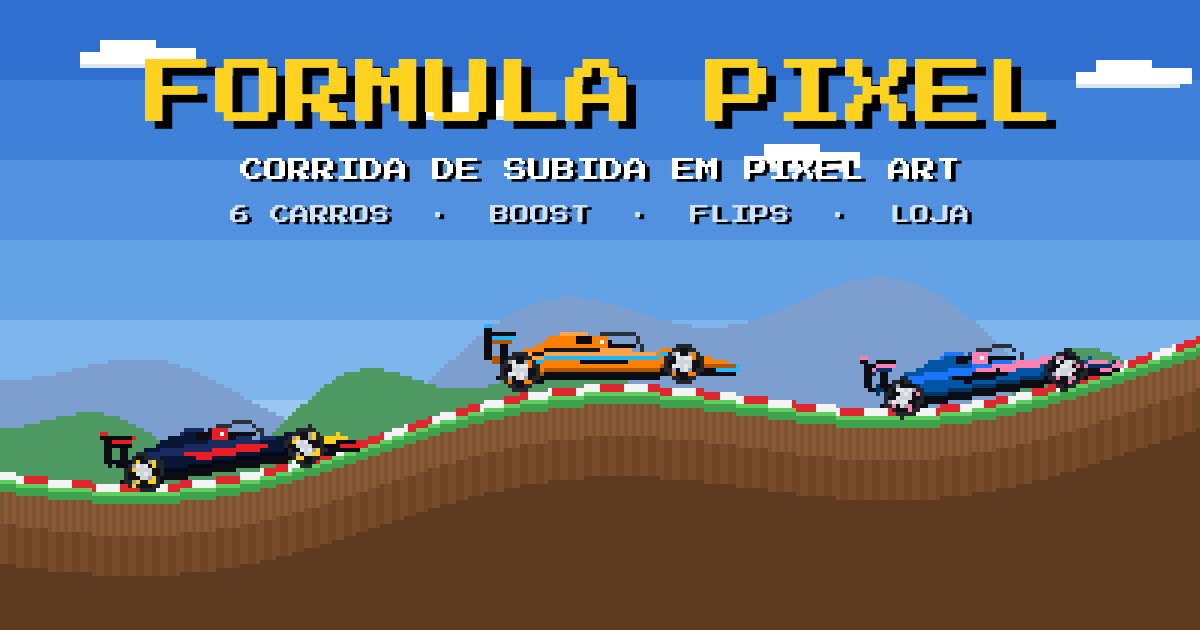
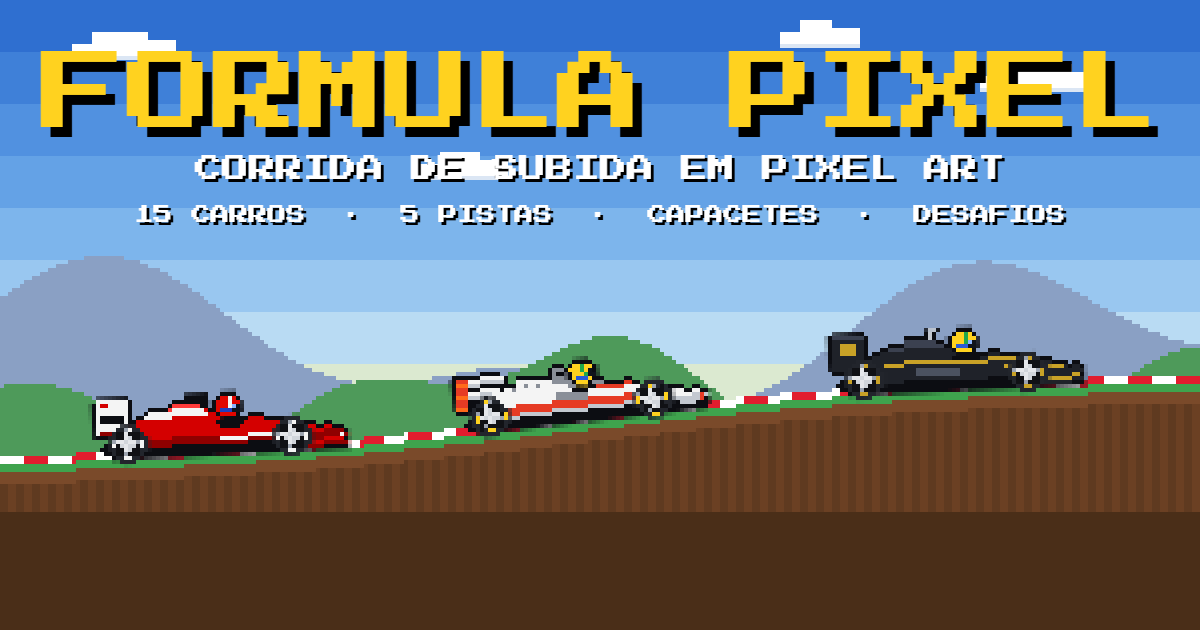
Imagem de compartilhamento com McLaren e Lotus do Senna e Ferrari do Schumacher, cada um com seu capacete

diff --git a/index.html b/index.html
@@ -12,13 +12,13 @@
 <meta name="apple-mobile-web-app-title" content="Fórmula Pixel"><meta name="apple-mobile-web-app-status-bar-style" content="black-translucent">
 <meta property="og:type" content="website"><meta property="og:locale" content="pt_BR"><meta property="og:site_name" content="Fórmula Pixel">
 <meta property="og:title" content="Fórmula Pixel – corrida de subida com carros de F1"><meta property="og:description" content="Corrida de subida em pixel art com 15 carros de F1, 5 pistas, capacetes de pilotos e suporte a controle, boost, flips e loja de upgrades. Jogue grátis no celular ou no PC, direto no navegador.">
-<meta property="og:url" content="https://formula-pixel.vercel.app/"><meta property="og:image" content="https://formula-pixel.vercel.app/og-image.png">
-<meta property="og:image:width" content="1200"><meta property="og:image:height" content="630"><meta property="og:image:alt" content="Três carros de F1 em pixel art subindo uma colina com zebras vermelhas e brancas">
+<meta property="og:url" content="https://formula-pixel.vercel.app/"><meta property="og:image" content="https://formula-pixel.vercel.app/og-image.png?v=2">
+<meta property="og:image:width" content="1200"><meta property="og:image:height" content="630"><meta property="og:image:alt" content="McLaren de Senna, Ferrari de Schumacher e Lotus de Senna, cada um com seu capacete, subindo uma colina em pixel art">
 <meta name="twitter:card" content="summary_large_image"><meta name="twitter:title" content="Fórmula Pixel – corrida de subida com carros de F1">
-<meta name="twitter:description" content="Corrida de subida em pixel art com 15 carros de F1, 5 pistas, capacetes de pilotos e suporte a controle, boost, flips e loja de upgrades. Jogue grátis no celular ou no PC, direto no navegador."><meta name="twitter:image" content="https://formula-pixel.vercel.app/og-image.png">
+<meta name="twitter:description" content="Corrida de subida em pixel art com 15 carros de F1, 5 pistas, capacetes de pilotos e suporte a controle, boost, flips e loja de upgrades. Jogue grátis no celular ou no PC, direto no navegador."><meta name="twitter:image" content="https://formula-pixel.vercel.app/og-image.png?v=2">
 <link rel="icon" href="favicon.ico" sizes="48x48"><link rel="icon" type="image/png" href="favicon.png" sizes="32x32">
 <link rel="apple-touch-icon" href="apple-touch-icon.png"><link rel="manifest" href="manifest.webmanifest">
-<script type="application/ld+json">{"@context":"https://schema.org","@type":"VideoGame","name":"Fórmula Pixel","description":"Corrida de subida em pixel art com 15 carros de F1, 5 pistas, capacetes de pilotos e suporte a controle, boost, flips e loja de upgrades. Jogue grátis no celular ou no PC, direto no navegador.","genre":["Corrida","Arcade"],"gamePlatform":["Web browser","Android","iOS","Windows","macOS"],"applicationCategory":"Game","operatingSystem":"Qualquer sistema com navegador","playMode":"SinglePlayer","inLanguage":"pt-BR","isAccessibleForFree":true,"offers":{"@type":"Offer","price":"0","priceCurrency":"BRL"},"url":"https://formula-pixel.vercel.app/","image":"https://formula-pixel.vercel.app/og-image.png"}</script>
+<script type="application/ld+json">{"@context":"https://schema.org","@type":"VideoGame","name":"Fórmula Pixel","description":"Corrida de subida em pixel art com 15 carros de F1, 5 pistas, capacetes de pilotos e suporte a controle, boost, flips e loja de upgrades. Jogue grátis no celular ou no PC, direto no navegador.","genre":["Corrida","Arcade"],"gamePlatform":["Web browser","Android","iOS","Windows","macOS"],"applicationCategory":"Game","operatingSystem":"Qualquer sistema com navegador","playMode":"SinglePlayer","inLanguage":"pt-BR","isAccessibleForFree":true,"offers":{"@type":"Offer","price":"0","priceCurrency":"BRL"},"url":"https://formula-pixel.vercel.app/","image":"https://formula-pixel.vercel.app/og-image.png?v=2"}</script>
 <!-- Fonte Press Start 2P (c) The Press Start 2P Project Authors, SIL OFL 1.1 -->
[1 lines of base64/hex data omitted]
 <main class="sr"><h1>Fórmula Pixel – jogo de corrida de subida com carros de Fórmula 1 em pixel art</h1>
